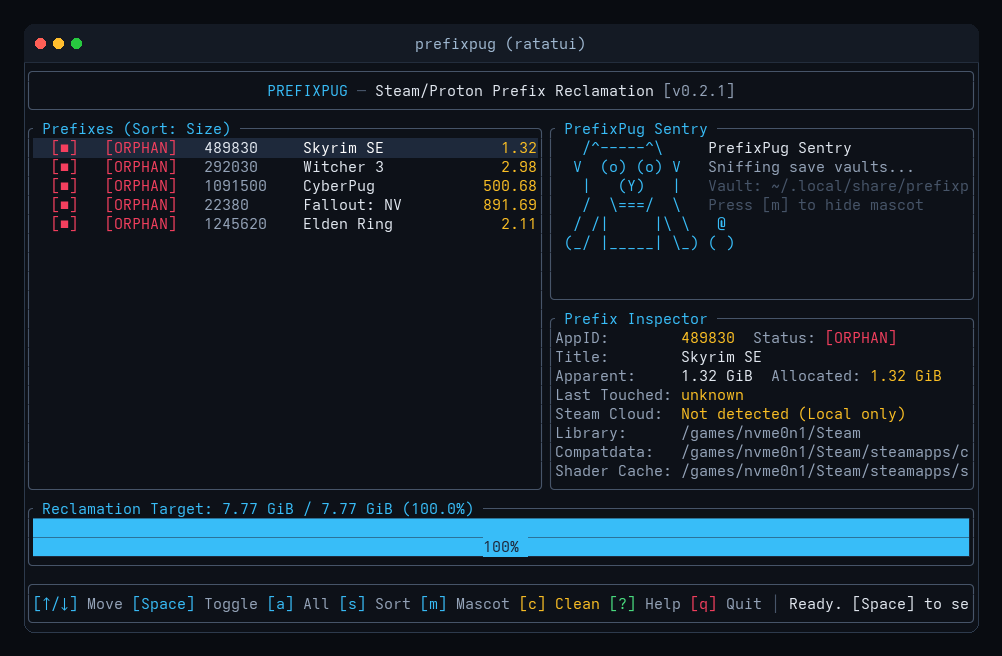
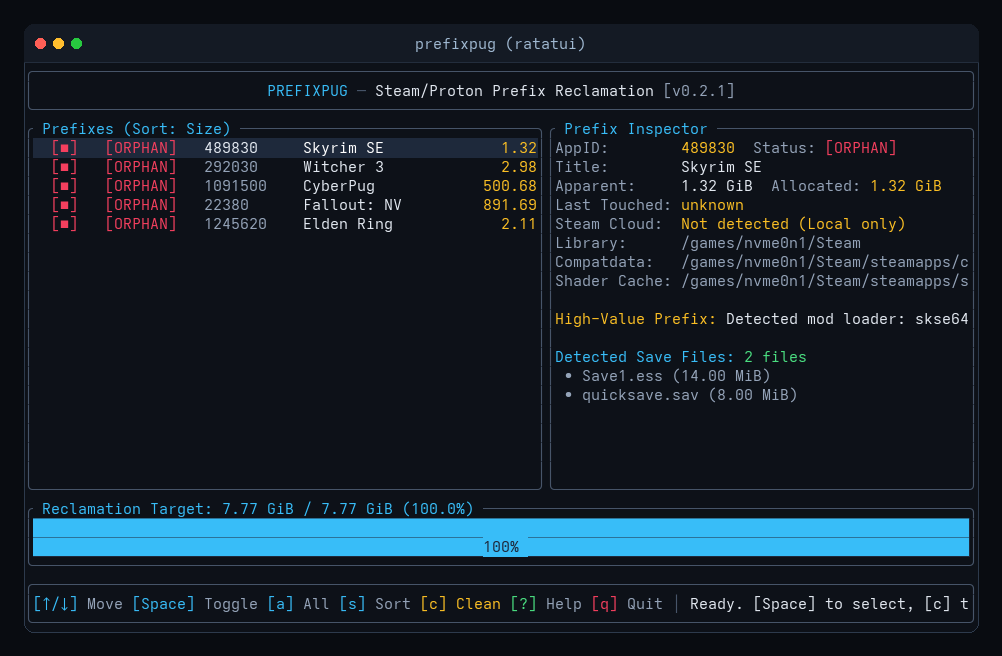
style: remove ASCII art from CLI and TUI for clean high-density dashboard

Changed region(s): [[0.5569, 0.1829, 0.9591, 0.7317], [0.4331, 0.9146, 0.9591, 0.9451]]

diff --git a/src/tui/ui.rs b/src/tui/ui.rs
@@ -55,7 +55,7 @@ pub fn render(f: &mut Frame, app: &App) {
         .split(chunks[1]);
 
     render_orphan_list(f, app, main_chunks[0]);
-    render_pug_and_details(f, app, main_chunks[1]);
+    render_inspector(f, app, main_chunks[1]);
     render_reclaim_progress(f, app, chunks[2]);
     render_status_bar(f, app, chunks[3]);
 
@@ -254,91 +254,6 @@ fn render_orphan_list(f: &mut Frame, app: &App, area: Rect) {
 
     let list = List::new(items).block(block);
     f.render_widget(list, area);
-}
-
-fn render_pug_and_details(f: &mut Frame, app: &App, area: Rect) {
-    if app.show_mascot {
-        let chunks = Layout::default()
-            .direction(Direction::Vertical)
-            .constraints([Constraint::Length(10), Constraint::Min(6)])
-            .split(area);
-
-        // Mascot: unmistakable ASCII dog sentry with floppy ears, paws, and curly tail
-        let anim_cycle = (app.animation_frame / 6) % 4;
-        let (head_line, snout_line, action) = match anim_cycle {
-            0 => (
-                "  V  (o) (o) V  ",
-                "   |   (Y)   |  ",
-                "Sniffing save vaults...",
-            ),
-            1 => ("  V  (^) (^) V  ", "   |   (▼)   |  ", "*sniff sniff*"),
-            2 => (
-                "  V  (•) (•) V  ",
-                "   |   (Y)   |  ",
-                "Digging up save candidates...",
-            ),
-            _ => (
-                "  V  (^) (^) V  ",
-                "   |   (w)   |  ",
-                "All saves accounted for.",
-            ),
-        };
-
-        let pug_art = vec![
-            Line::from(vec![
-                Span::styled("   /^-----^\\    ", Style::default().fg(COLOR_ACCENT)),
-                Span::styled(
-                    " PrefixPug Sentry",
-                    Style::default().fg(COLOR_TEXT).add_modifier(Modifier::BOLD),
-                ),
-            ]),
-            Line::from(vec![
-                Span::styled(
-                    head_line,
-                    Style::default()
-                        .fg(COLOR_ACCENT)
-                        .add_modifier(Modifier::BOLD),
-                ),
-                Span::styled(format!(" {}", action), Style::default().fg(COLOR_MUTED)),
-            ]),
-            Line::from(vec![
-                Span::styled(snout_line, Style::default().fg(COLOR_ACCENT)),
-                Span::styled(
-                    " Vault: ~/.local/share/prefixpug/",
-                    Style::default().fg(COLOR_BORDER),
-                ),
-            ]),
-            Line::from(vec![
-                Span::styled("   /  \\===/  \\  ", Style::default().fg(COLOR_ACCENT)),
-                Span::styled(
-                    " Press [m] to hide mascot",
-                    Style::default().fg(COLOR_BORDER),
-                ),
-            ]),
-            Line::from(vec![Span::styled(
-                "  / /|     |\\ \\   @",
-                Style::default().fg(COLOR_ACCENT),
-            )]),
-            Line::from(vec![Span::styled(
-                " (_/ |_____| \\_) ( )",
-                Style::default().fg(COLOR_ACCENT),
-            )]),
-        ];
-
-        let pug_block = Block::default()
-            .title(" PrefixPug Sentry ")
-            .title_style(Style::default().fg(COLOR_ACCENT))
-            .borders(Borders::ALL)
-            .border_type(BorderType::Rounded)
-            .border_style(Style::default().fg(COLOR_BORDER));
-
-        let pug_widget = Paragraph::new(pug_art).block(pug_block);
-        f.render_widget(pug_widget, chunks[0]);
-
-        render_inspector(f, app, chunks[1]);
-    } else {
-        render_inspector(f, app, area);
-    }
 }
 
 fn render_inspector(f: &mut Frame, app: &App, area: Rect) {
@@ -636,8 +551,6 @@ fn render_status_bar(f: &mut Frame, app: &App, area: Rect) {
         Span::styled("All ", Style::default().fg(COLOR_MUTED)),
         Span::styled("[s] ", Style::default().fg(COLOR_ACCENT)),
         Span::styled("Sort ", Style::default().fg(COLOR_MUTED)),
-        Span::styled("[m] ", Style::default().fg(COLOR_ACCENT)),
-        Span::styled("Mascot ", Style::default().fg(COLOR_MUTED)),
         Span::styled("[c] ", Style::default().fg(COLOR_WARN)),
         Span::styled("Clean ", Style::default().fg(COLOR_WARN)),
         Span::styled("[?] ", Style::default().fg(COLOR_SUCCESS)),
@@ -792,13 +705,6 @@ fn render_help_dialog(f: &mut Frame, area: Rect) {
             Span::styled("  s                ", Style::default().fg(COLOR_ACCENT)),
             Span::styled(
                 "Cycle sort: Size → Age → AppID",
-                Style::default().fg(COLOR_TEXT),
-            ),
-        ]),
-        Line::from(vec![
-            Span::styled("  m                ", Style::default().fg(COLOR_ACCENT)),
-            Span::styled(
-                "Toggle PrefixPug mascot sentry",
                 Style::default().fg(COLOR_TEXT),
             ),
         ]),

diff --git a/src/main.rs b/src/main.rs
@@ -92,17 +92,6 @@ fn execute_clean(
     Ok(cleaned_bytes)
 }
 
-fn print_cli_dog_banner(title: &str, subtitle: &str) {
-    if std::io::stdout().is_terminal() {
-        println!("  \x1b[36m/^-----^\\\x1b[0m    \x1b[1;36m{}\x1b[0m", title);
-        println!(" \x1b[36mV  (o) (o) V\x1b[0m  \x1b[90m{}\x1b[0m", subtitle);
-        println!("  \x1b[36m|   (Y)   |\x1b[0m");
-        println!(" \x1b[36m/ `-------' \\\x1b[0m\n");
-    } else {
-        println!("{}: {}", title, subtitle);
-    }
-}
-
 fn run_audit_command(
     prefixes: &[OrphanedPrefix],
     json_mode: bool,
@@ -125,18 +114,18 @@ fn run_audit_command(
         return Ok(if audit_targets.is_empty() { 4 } else { 0 });
     }
 
-    let subtitle = if stale_only {
-        format!(
-            "Filtering to installed games untouched for >{} days",
+    println!("\x1b[1;36mPrefixPug :: Read-Only Prefix Inventory Audit\x1b[0m");
+    if stale_only {
+        println!(
+            "Filtering to installed games with prefixes untouched for >{} days:\n",
             stale_days
-        )
+        );
     } else {
-        format!(
-            "Total detected prefixes across mounted libraries: {}",
+        println!(
+            "Total detected prefixes across all drives: {}\n",
             audit_targets.len()
-        )
-    };
-    print_cli_dog_banner("PrefixPug :: Read-Only Prefix Inventory Audit", &subtitle);
+        );
+    }
 
     if audit_targets.is_empty() {
         println!("No prefixes found matching criteria.");
@@ -186,10 +175,8 @@ fn run_scan_command(orphans: &[OrphanedPrefix], json_mode: bool) -> Result<i32> 
         return Ok(if orphans.is_empty() { 4 } else { 0 });
     }
 
-    print_cli_dog_banner(
-        "PrefixPug :: Steam/Proton Storage Scan",
-        &format!("Found {} orphaned prefix candidate(s):", orphans.len()),
-    );
+    println!("\x1b[1;36mPrefixPug :: Steam/Proton Storage Scan\x1b[0m");
+    println!("Found {} orphaned prefix candidate(s):\n", orphans.len());
 
     if orphans.is_empty() {
         println!("No orphaned prefixes detected. Your storage is clean.");
@@ -245,12 +232,10 @@ fn run_clean_command(
     let is_explicit_dry_run = cli.dry_run;
     let is_authorized_live = cli.yes || cli.auto_clean || purge_requested;
 
-    let sub = if is_explicit_dry_run || !is_authorized_live {
-        "[SAFE DEFAULT: Review targets below. Deletions require explicit confirmation]"
-    } else {
-        "Reclamation mode active"
-    };
-    print_cli_dog_banner("PrefixPug :: Cleanup Target Summary", sub);
+    println!("\x1b[1;36mPrefixPug :: Cleanup Target Summary\x1b[0m");
+    if is_explicit_dry_run || !is_authorized_live {
+        println!("\x1b[1;33m[SAFE DEFAULT: Review targets below. Deletions require explicit confirmation]\x1b[0m");
+    }
 
     let total_reclaimable: u64 = targets.iter().map(|o| o.total_size()).sum();
     for t in &targets {

diff --git a/README.md b/README.md
@@ -69,7 +69,6 @@ PrefixPug includes an interactive terminal dashboard built with `ratatui`:
 | `a` | **Select All** | Batch select or deselect all visible deletable prefixes |
 | `i` | **Invert Selection** | Flip selection across visible prefixes |
 | `s` | **Cycle Sort Mode** | Sort by Size (descending), Age (oldest first), or AppID |
-| `m` | **Toggle Mascot** | Toggle between data-dense Inspector and PrefixPug Sentry |
 | `/` | **Search / Filter** | Filter by AppID or game title |
 | `c` | **Clean Selected** | Open the confirmation modal to vault saves and purge |
 | `?` / `h` | **Help Dialog** | Toggle control help dialog |
